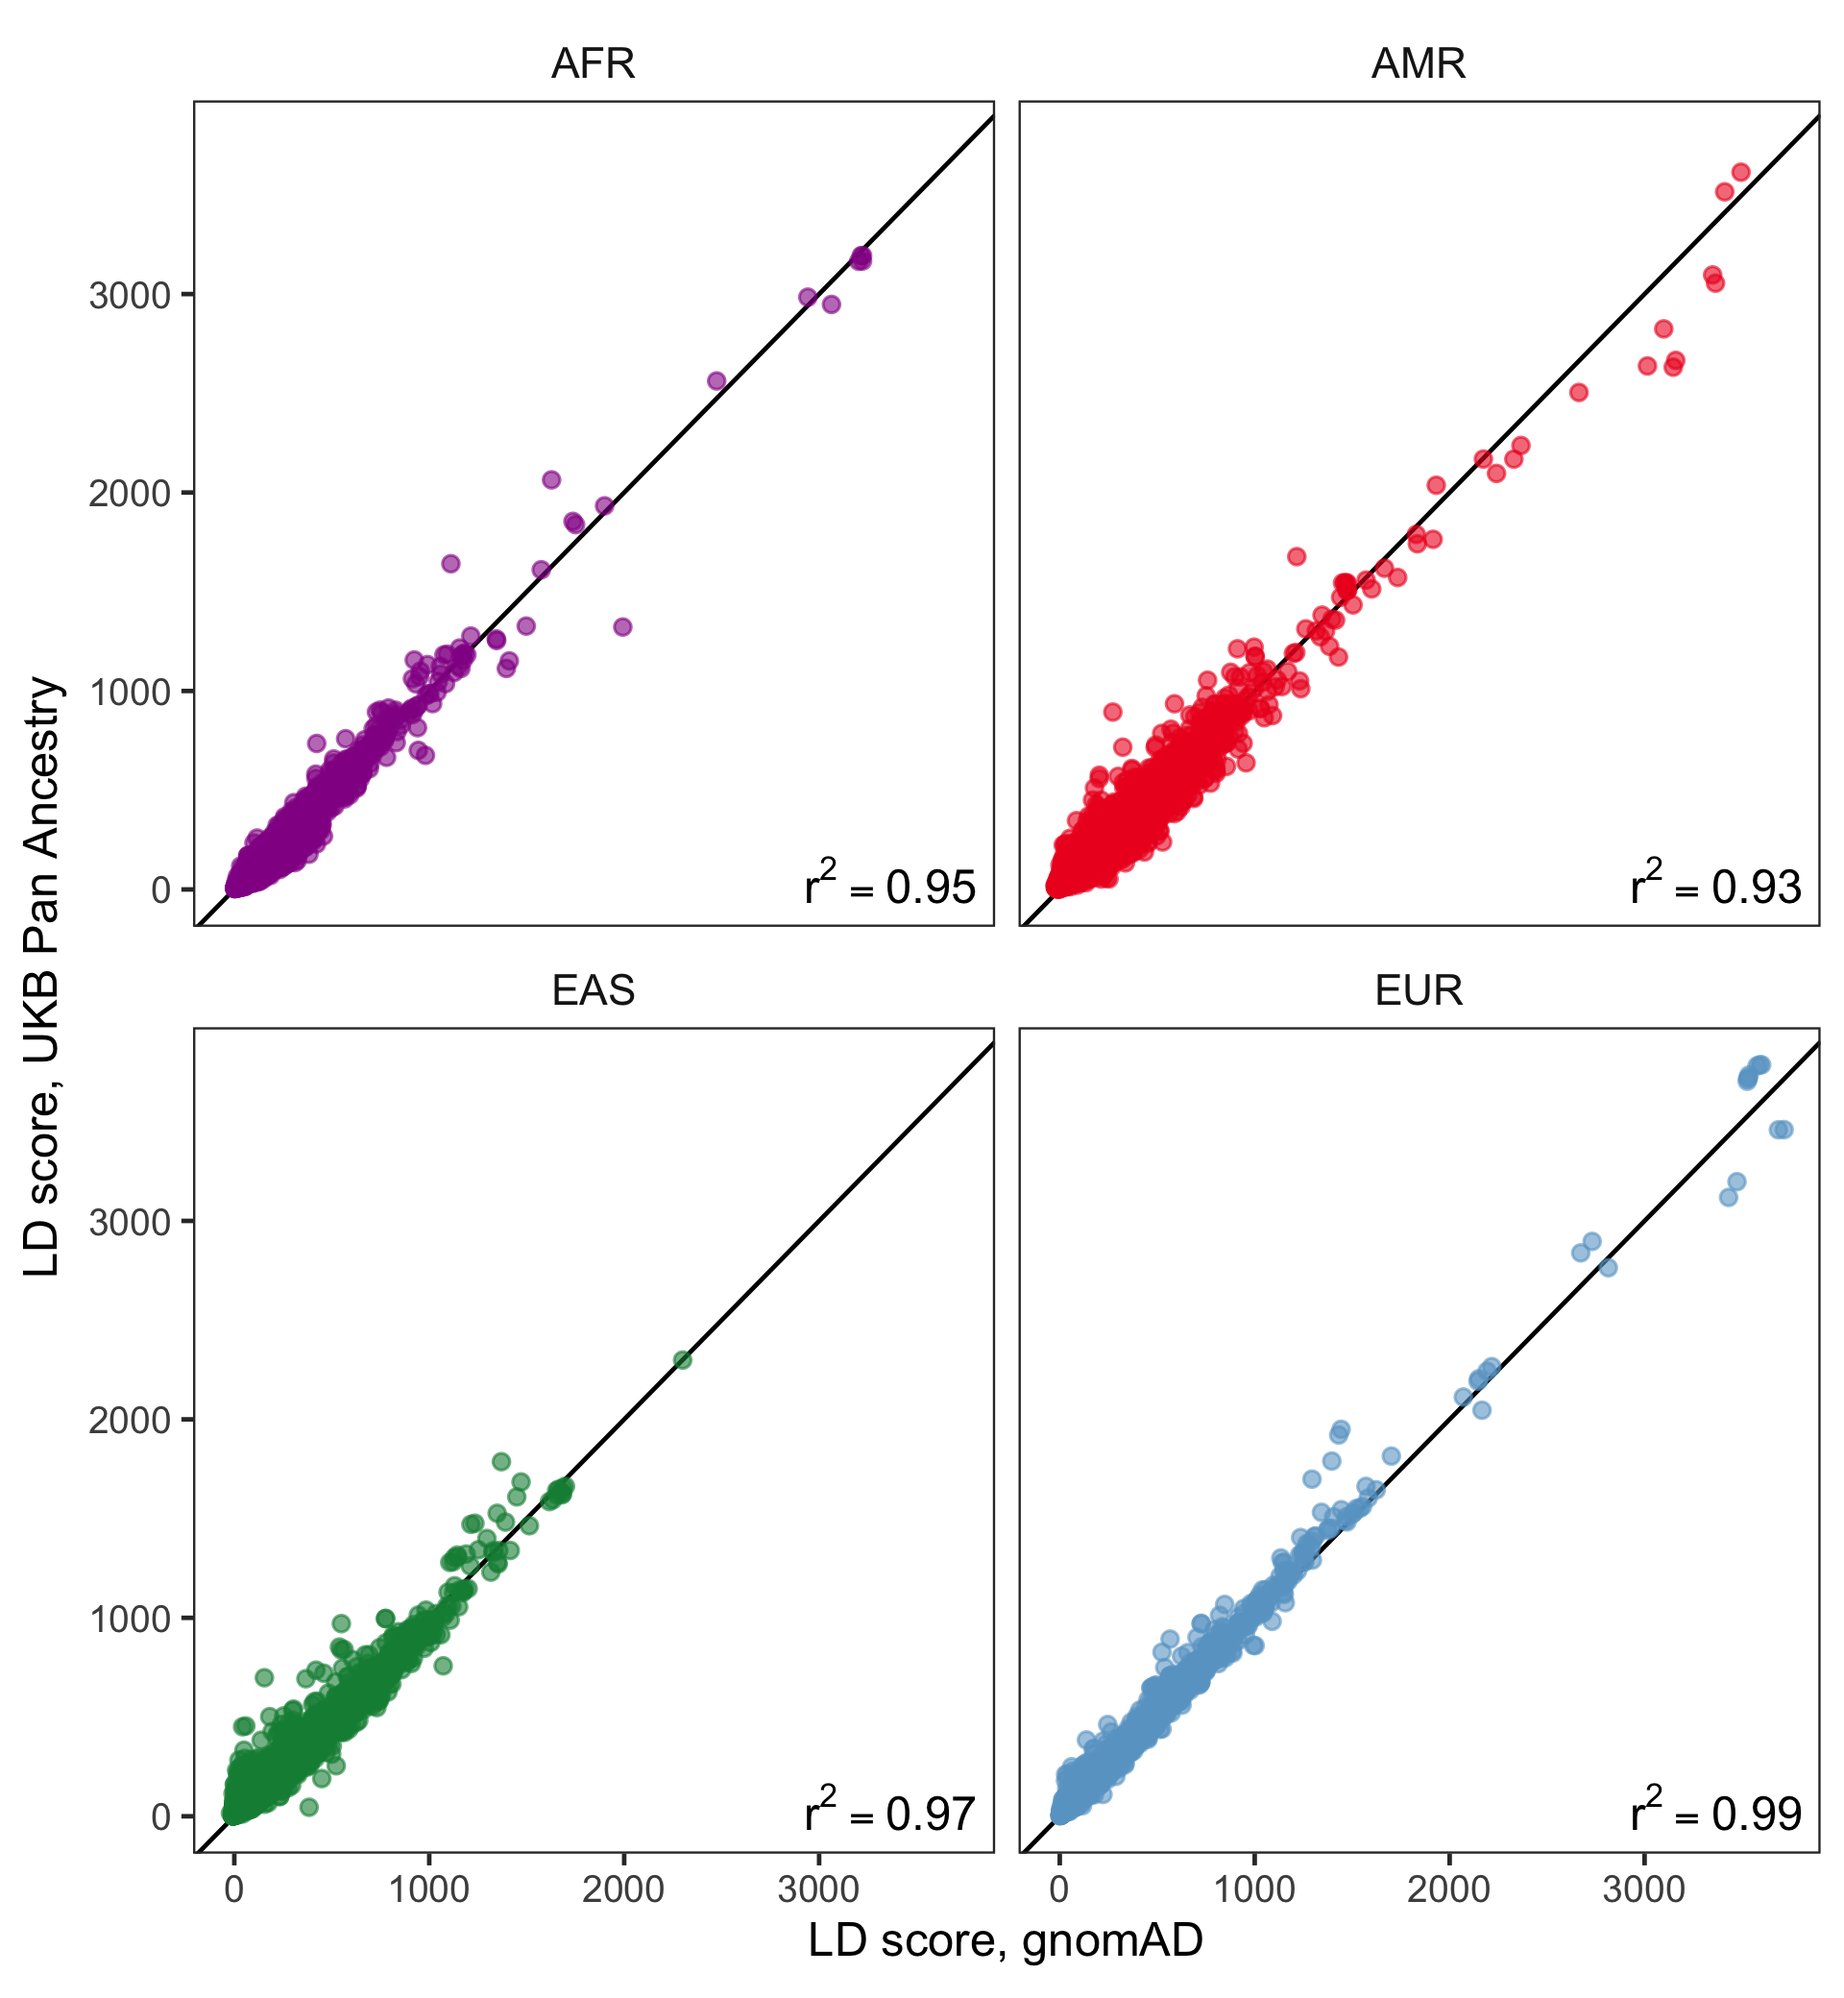
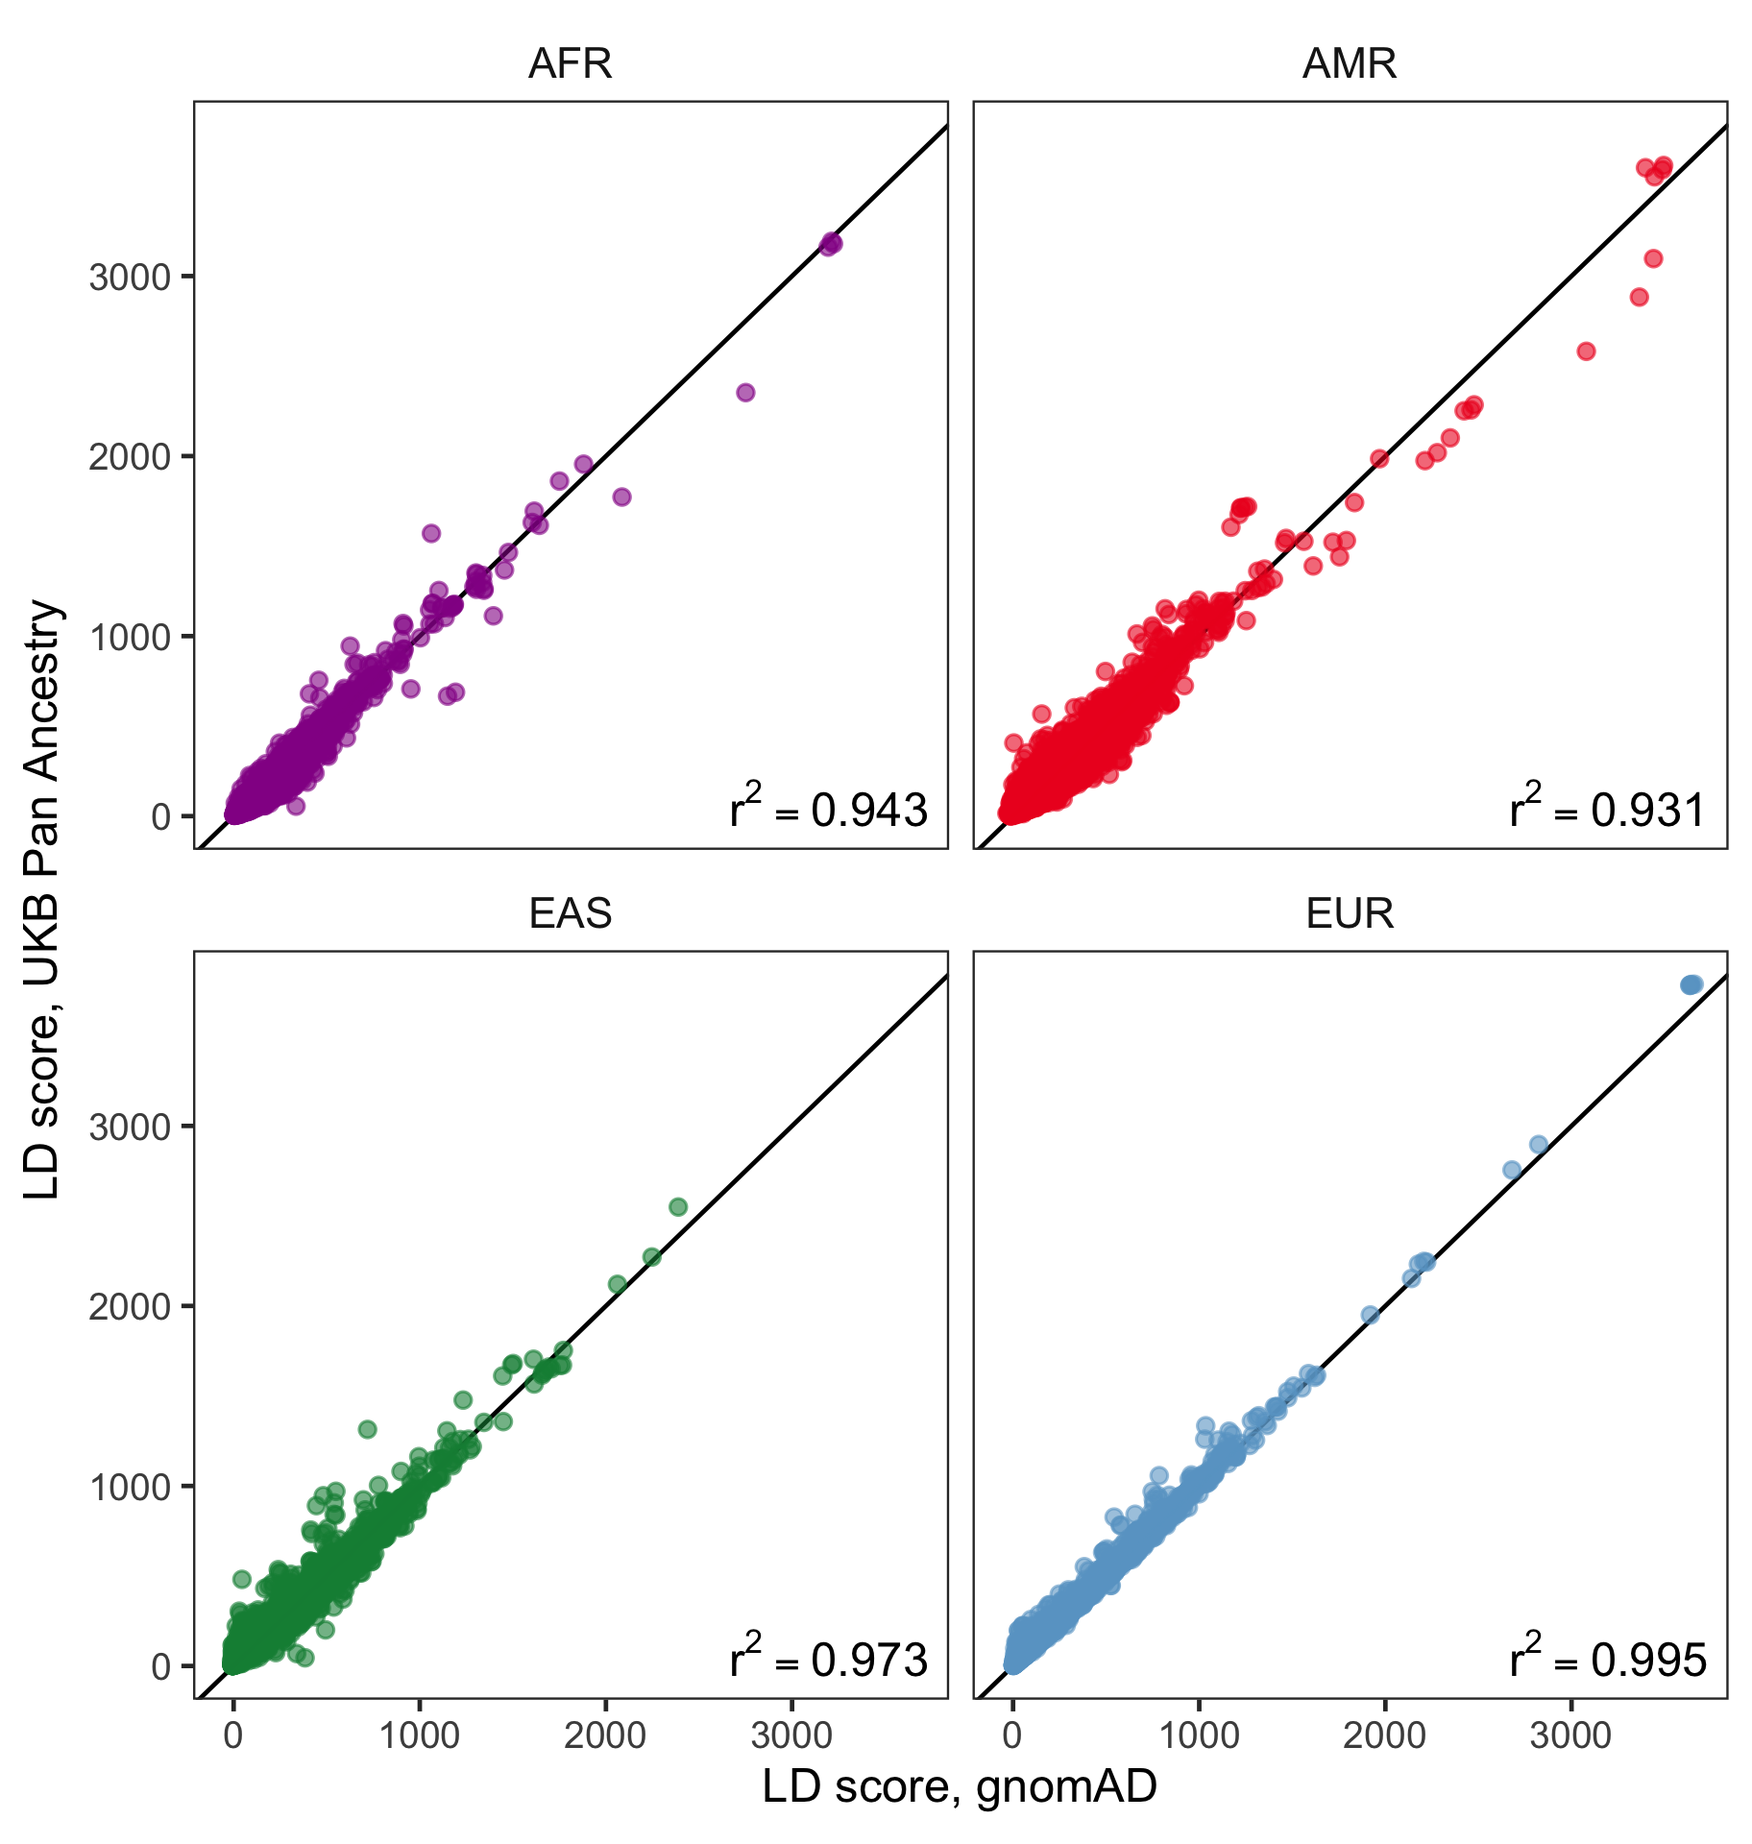
Performed LD score comparison between EUR and gnomAD NWE, updated discussion of differences between UKB and gnomAD

diff --git a/website/blog/2020-10-27-ld-scores.md b/website/blog/2020-10-27-ld-scores.md
@@ -5,7 +5,7 @@ author: Rahul Gupta, on behalf of the Pan UKBB Team
 tags: [LD, scores]
 ---
 
-In this analysis, we aimed to better understand the similarities and differences between imputation-based and sequence-based LD scores. To this end, we compared LD scores from gnomAD (sequence-based) and UKB (imputation-based) across four ancestry groups: African (`AFR`), Admixed American (`AMR`),  East Asian (`EAS`), and non-Finnish European (`EUR`; `NFE` in gnomAD). This also serves as a more general comparison between LD scores from two separate cohorts. LD scores were obtained as follows.
+In this analysis, we aimed to better understand the similarities and differences between imputation-based and sequence-based LD scores. To this end, we compared LD scores from gnomAD (sequence-based) and UKB (imputation-based) across four ancestry groups: African (`AFR`), Admixed American (`AMR`),  East Asian (`EAS`), and North-Western European (`EUR`; `NWE` in gnomAD). This also serves as a more general comparison between LD scores from two separate cohorts. LD scores were obtained as follows.
 
 <!--truncate-->
 
@@ -25,4 +25,4 @@ LD scores were compared from individuals in the gnomAD cohort from ancestries th
 
 **Figure 1:** Pairwise comparisons of LD scores in UKB vs. gnomAD within ancestries. Red line is the $y=x$ line. SNPs were subsampled randomly prior to plotting to improve readability.
 
-For these four populations, we find very strong concordance of LD scores when comparing gnomAD and UKB (**Figure 1**). $r^2$ values were consistently above $0.9$, with highest values observed for `EUR` and `EAS`. Correlation values for `AMR` and `AFR` were slightly lower, potentially secondary to the higher degree of genetic diversity in these populations.
+For these four populations, we find very strong concordance of LD scores when comparing gnomAD and UKB (**Figure 1**). $r^2$ values were consistently above $0.9$, with highest values observed for `EUR` and `EAS`. Correlation values for `AMR` and `AFR` were slightly lower. We suspect that differences may be due to (1) the higher degree of genetic diversity in these populations and (2) systematic differences in these populations between the gnomAD and UKB cohorts.
